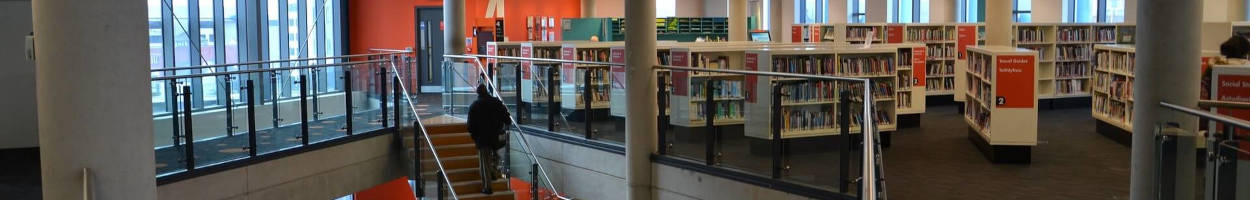
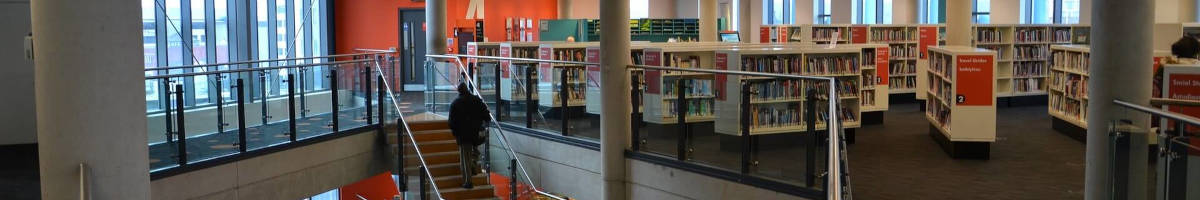
Adjusted image sizes and naming

diff --git a/exhibitions.html b/exhibitions.html
@@ -54,7 +54,7 @@
           <div class="exhibition__content grid">
             <h2 class="heading line-green">Biology and medicine</h2>
             <p>From micro-organisms to the human body, major breakthroughs in biology are offering us unique insights into the great wonders of the tiny world. Over a series of exhibits we explore the history of medicine and take a look at some major breakthroughs including the discovery of penicillin and the first heart transplant.</p>
-            <img src="images/exhibitions/illustrations/biology-n-medicine-illustration.svg" alt="Microscope icon" class="exhibition__illustration" />
+            <img src="images/exhibitions/illustrations/biology-and-medicine-illustration.svg" alt="Microscope icon" class="exhibition__illustration" />
           </div>
         </article>
 
@@ -81,7 +81,7 @@
           <div class="exhibition__content grid">
             <h2 class="heading line-orange">Robotics and AI</h2>
             <p>The information revolution is here and robotics and artificial intelligence are the science of the future. From useful home applications of AI to industrial uses of robotics, the future is here. You can even say hello and shake the hand of Rob the Robot.</p>
-            <img src="images/exhibitions/illustrations/robotics-n-ai-illustration.svg" alt="Vintage robot icon" class="exhibition__illustration" />
+            <img src="images/exhibitions/illustrations/robotics-and-ai-illustration.svg" alt="Vintage robot icon" class="exhibition__illustration" />
           </div>
         </article>
 
